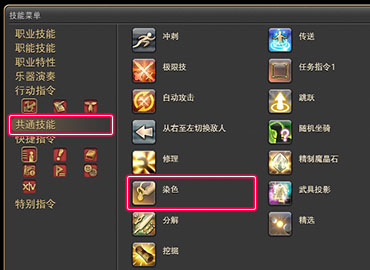
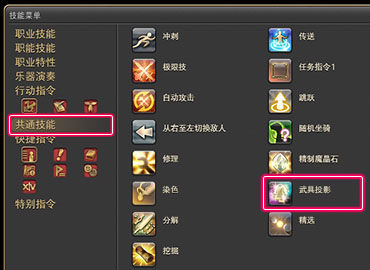
update

Changed region(s): [[0.327, 0.6222, 1.0, 0.8]]

diff --git a/docs/basic/equip-looking.md b/docs/basic/equip-looking.md
@@ -1,5 +1,5 @@
 # 染色与投影
-
+<FloatTOC />
 玩家可以对身上的装备进行染色，另外也可以把高等级的装备投影成低等级的样子，更可以保存投影模板，方便随时随地换装。
 
 ++FF14游戏中并没有所谓“时装”的东西，好看的衣服通常会作为1级装备存在（当然很多高等级的装备也很好看）++。
@@ -251,6 +251,106 @@ Tips:
 
 :::
 
+::: collapse 使用投影台进行投影
+
+;;;.guide .cols2
+;;;.guide .col
+![](./equip.assets/GlamourDresser.jpg)
+;;;
+
+;;;.guide .col .grow
+在旅馆的客房里找到投影台。
+
+所有主城（利姆萨·罗敏萨、乌尔达哈、格里达尼亚、伊修加德、黄金港、水晶都、旧萨雷安）都有旅馆，在地图上有床铺图标的地方即是。
+
+;;;
+;;;
+
+##### 把装备投影化
+
+;;;.guide .cols2
+;;;.guide .col
+![](./equip.assets/Execute.png)
+;;;
+
+;;;.guide .col .grow
+在弹出的列表中找到想要使用的装备，并将其幻影化
+
+※幻影化的时候需要消耗1枚幻象棱晶。
+※幻影化的装备取出时会附加绑定属性，同时装备上原有的制作者署名、镶嵌的魔晶石、精炼度都会清空。
+
+;;;
+;;;
+
+##### 编辑保存投影模板
+
+;;;.guide .cols2
+;;;.guide .col
+![](./equip.assets/GlamourPlate.jpg)
+;;;
+
+;;;.guide .col .grow
+
+点击投影台下方的**编辑投影模板**按钮，就可以开始制作投影模板了。
+※制作投影模板时可以选择使用收藏柜中的装备，收藏柜可以收藏节日活动等特殊装备。
+※投影模板不用全部添加，留空的部位会保留装备原来的外观。
+
+制作好投影模板后，点击下方的**保存**按钮，就可以保存投影模板了！
+※制作好的投影模板可以直接点击保存左侧的**投影**进行整套投影。
+;;;
+;;;
+
+##### 使用投影模板
+
+;;;.guide .cols2
+;;;.guide .col
+![](./equip.assets/LinktoGlamourPlate.jpg)
+;;;
+
+;;;.guide .col .grow
+
+点击角色信息上方的**投影模板**按钮，就可以随时使用投影模板进行投影。
+
+点击角色信息上方的**套装列表**按钮，就可以将投影模板绑定到套装上，这样当你每次切换职业的时候，都可以自动套用投影模板了。
+;;;
+;;;
+
+:::
+
+##### 武具投影与投影台的区别
+
+<div class="md-table">
+  <table class="ui compact grey striped unstackable table">
+    <thead>
+      <tr>
+        <th style="width:3.5em"></th>
+        <th style="17em">直接投影</th>
+        <th style="23em">投影台 + 投影模板</th></tr>
+    </thead>
+    <tbody>
+      <tr>
+        <td>优点</td>
+        <td>简单，方便，快捷，<br>只要有棱晶，随时随地都可以操作</td>
+        <td>频繁切换原始装备的时候，可以更快地投影（并且不再消耗棱晶）。
+          <br>可以为不同职业的共通装备准备不同的投影模板（模板可直接绑定套装，在套装上右键就可以看到选项）。</td></tr>
+      <tr>
+        <td>缺点</td>
+        <td>
+        <ul>
+            <li>必须保留外观装备占格子。</li>
+            <li>棱晶消耗较大，每更换一次原始装备，都需要重新消耗棱晶投影。不能为共通装备准备不同投影（否则消耗棱晶剧增）。</li></ul>
+        </td><td>
+        <ul>
+            <li>准备手续较为复杂，并且只能在主城旅馆里准备。</li>
+            <li>所有部位加起来一共只能存放 400 个幻影</li>
+            <li>一共只能储存 15 套模板。</li>
+            <li>只能在安全区使用（野外或副本里不能用）</li></ul>
+        </td>
+        </tr>
+    </tbody>
+  </table>
+</div>
+
 ### 想要解除武具投影
 
 ;;;.guide .cols2
@@ -267,7 +367,7 @@ Tips:
 ;;;
 ;;;
 
-### 想染装备变透明
+### 想让装备变透明
 
 ;;;.guide .cols2
 ;;;.guide .col
@@ -285,48 +385,6 @@ Tips:
 ;;;
 ;;;
 
-<div class="md-table">
-  <table class="ui compact grey striped unstackable table">
-    <thead>
-      <tr>
-        <th></th>
-        <th style="17em">直接投影</th>
-        <th style="23em">投影台 + 投影模板</th></tr>
-    </thead>
-    <tbody>
-      <tr>
-        <td>投影方法</td>
-        <td><ul><li>在原始装备上点击右键，选择<mark>武具投影</mark>。</li>
-          <li>选择目标装备 (用来作为外观的装备)。</li>
-          <li>(需要消耗<strong>幻象棱晶</strong>)点击<mark>投影</mark>即可完成。</li></ul></td>
-        <td><ul><li>前往主城旅馆 (沙都，海都，森都，伊修加德和黄金港) 或军队冒险者小队营房，右键打开里面的投影台。</li>
-          <li>点击右侧的装备，放进左侧投影台。(放入装备需要消耗<strong>幻象棱晶</strong>)</li>
-          <li>放入装备后，点击投影台下方的<mark>编辑投影模板</mark>，在弹出的编辑窗口中，上方的 1~15 是 15 套模板的编号，点击任意部位的图标，右侧装备选择就会弹出对应部位已经放入的装备 (右边装备选择可以在投影台和收藏柜之间切换)，选择并放入装备即可。</li>
-          <li>不用所有部位都选择装备，未选择的部位将会被保留。编辑好点击下方<mark>保存</mark>。</li>
-          <li>按 C 进入角色信息→点击预览窗口上房的<mark>投影模板</mark>→在弹出的窗口中选择模板编号，并点击下方的<mark>投影</mark>即可。</li></ul></td></tr>
-      <tr>
-        <td>优点</td>
-        <td>简单，方便，快捷，只要有棱晶，随时随地都可以操作</td>
-        <td>频繁切换原始装备的时候，可以更快幻化 (并且不再消耗棱晶)。
-          <br>可以为不同职业的共通装备准备不同的投影模板 (模板可直接绑定套装，在套装上右键就可以看到选项)。</td></tr>
-      <tr>
-        <td>缺点</td>
-        <td>
-        <ul>
-            <li>必须保留外观装备占格子。</li>
-            <li>棱晶消耗较大，每更换一次原始装备，都需要重新消耗棱晶投影。不能为共通装备准备不同幻化 (否则消耗棱晶剧增)。</li></ul>
-        </td><td>
-        <ul>
-            <li>准备手续较为复杂，并且只能在主城旅馆里准备。</li>
-            <li>所有部位加起来一共只能存放 400 个幻影</li>
-            <li>一共只能储存 15 套模板。</li>
-            <li>只能在安全区使用 (野外或副本里不能用)</li></ul>
-        </td>
-        </tr>
-    </tbody>
-  </table>
-</div>
-<!--【补】需要进一步整合-->
 > * [发光武器介绍](/topic/shine.md)
 > * [外观检索、获取指南](https://bbs.nga.cn/read.php?tid=14869355)
 > * [时装套装介绍](https://ff14.huijiwiki.com/wiki/%E6%97%B6%E8%A3%85%E5%A5%97%E8%A3%85)

diff --git a/docs/basic/battle-mech.md b/docs/basic/battle-mech.md
@@ -41,8 +41,27 @@ GCD注意事项<br>图片概念来自[the Balance Discord](https://discord.gg/th
 FF14的技能体系，就是通过GCD技能构建基础循环，然后插入各种能力技，提升总体伤害。
 
 ### 身位与连击
-<!--【补】身位-->
+
+;;;.guide .cols3
+;;;.guide .col
+<img src="./battle.assets/circle.jpg" width="350px"/>
+
+在背侧交界处（红圈位置）输出，<br>就可以很轻松地在不同身位之间切换。
+;;;
+
+;;;.guide .col .grow
+
+选中怪物的时候，怪物脚下会出现一个“目标圈”，目标圈展示了怪物当前的**面向**：有一个突出的粗箭头的方向为正面，有线框小箭头的为侧面，没有圈的地方为背面。
+
 近战职业的攻击会有身位要求，在指定身位下才能打出更高的伤害，不过在野外自己做任务的话就比较随缘了（因为怪会跟着你转），记住自己技能的身位是很重要的。
+
+;;;
+;;;.guide .col
+<img src="./battle.assets/fullcircle.png"/>
+
+有一些怪的圈是完整的，这种怪没有身位，<br>在它的任意方向都可以触发正确的身位效果。
+;;;
+;;;
 
 同时还有一些技能有连击要求，如果按照正确的连击顺序使用技能，就能够对敌人造成更高的伤害，或者获得特殊的buff。当我们说到XX连击时，指的是以XX技能结束的一套技能组合，而非单指XX技能。
 

diff --git a/docs/before/job.md b/docs/before/job.md
@@ -1,10 +1,20 @@
 # 职业选择
-<!-- 【补】来个banner！ -->
+
+;;;.guide .cols2
+;;;.guide .col .grow
 新玩家在建号的时候，需要选择一个战斗职业作为自己的出生职业，但是这并不是你的终身职业。FF14的战斗职业系统比较特殊，你可以用**一个角色畅玩所有职业**（切换武器就可以切换职业了），全职业满级大佬也遍地都是。因此不用太过于纠结职业，玩的不爽换一个就是。
 
 FF14的职业平衡做的相对较为良好，在推进主线剧情时，所有职业都可以正常完成单人战斗任务。而在挑战大型困难副本时，基本不存在哪个职业失业的情况，更重要的参考是玩家的学习能力、反应能力和对职业的理解与操作。所以在选择职业时，要以自己的能力和喜好为主。
 
 职业选择互动视频：[点我体验](https://www.bilibili.com/video/av73594017)
+
+;;;
+
+;;;.guide .col 
+<img src="./job.assets/jobs.jpg" width="450px" />
+;;;
+;;;
+
 
 ## 职业系统
 

diff --git a/docs/topic/raid.md b/docs/topic/raid.md
@@ -43,11 +43,17 @@
 
 在萨雷安接任务<quest name="水晶中的警告" type="plus" />，那里的贤人意外获得了一块水晶，从水晶中我们得知，关押传说中创造生物的万魔殿突发情况，于是我们踏上了万魔殿，展开新的拯救世界的旅途。
 
+零式万魔殿在完成普通万魔殿剧情任务之后，于尼姆吉吉<Pos name="迷津" :x="8.4" :y="27.4" />对话开放。
+
 万魔殿目前有边境之狱，零式边狱（P1s~P4s）掉落600装备。
 
 ### 24人副本：十二神传说
 
 在主线中留下的神秘信息，艾欧泽亚的十二神究竟是什么。第一弹将于6.1开启。
+
+### 绝境战：绝龙诗
+
+如果当年作为光之战士的我们救下了奥尔什方，龙诗战争将会如何发展，我们又将如何面对那之后的一切？
 
 ## 暗影逆焰（5.0）挑战副本
 

diff --git a/docs/before/pay.md b/docs/before/pay.md
@@ -75,7 +75,18 @@ PS：当你满足招待者要求后，也可以将自己的招待码发给给新
 
 #### 如何在游戏里领取直升包和其他商城道具？
 
-<!--【补】备写-->
+;;;.guide .cols2
+;;;.guide .col
+![](./pay.assets/deliverymoogle.jpg)
+;;;
+
+;;;.guide .col .grow
+在主城里找到邮差莫古力，打开窗口后点击窗口上方的**请求特典与商城道具**，然后关闭窗口稍等一会。当听到有来信的提示音后就可以从邮差莫古力的特典邮件分类里找到了。
+
+※ 邮差莫古力在地图上是一个信封的标志。
+※ 有的时候邮差送信会有点慢，如果超过24小时仍未收到特典的话，可以前往官网联系客服解决。
+;;;
+;;;
 :::
 
 ## 收费方式和充值奖励

diff --git a/docs/basic/config.md b/docs/basic/config.md
@@ -1,7 +1,6 @@
 # 常用设置及热键
 
 ## 游戏内设置
-<!--【补】更新图-->
 ;;;.guide .cols2
 ;;;.guide .col
 <img src="./config.assets/dx9.jpg" width="450px" />
